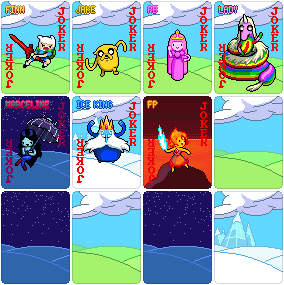
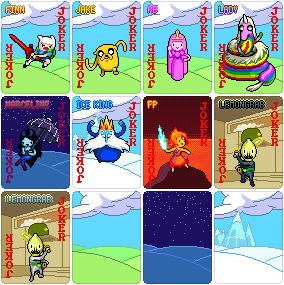
added lemongrab sprites

Changed region(s): [[0.7324, 0.3368, 1.0, 0.6737], [0.0, 0.6456, 0.2535, 1.0]]

diff --git a/upscale.py b/upscale.py
@@ -1,0 +1,28 @@
+import os
+from PIL import Image
+
+input_dir = "./assets/1x/"
+output_dir = "./assets/2x/"
+
+os.makedirs(output_dir, exist_ok=True)
+
+for filename in os.listdir(input_dir):
+    if filename.endswith(".png"):
+        if not os.path.exists(os.path.join(output_dir, filename)) or os.path.getmtime(os.path.join(output_dir, filename)) < os.path.getmtime(os.path.join(input_dir, filename)):
+            if os.path.exists(os.path.join(output_dir, filename)):
+                os.remove(os.path.join(output_dir, filename))
+                print(f"❌ Deleted 2x of {filename}")
+            else:
+                print(f"🫥 2x of {filename} already doesn't exist")
+            input_path = os.path.join(input_dir, filename)
+            output_path = os.path.join(output_dir, filename)
+
+            img = Image.open(input_path)
+            scaled_img = img.resize((img.width * 2, img.height * 2), Image.NEAREST)
+            scaled_img.save(output_path)
+
+            print(f"✅ Upscaled {filename} to 2x")
+        else:
+            print(f"↪ Ignored {filename} in 2x folder (1x hasn't been changed)")
+    else:
+        print(f"↪ Ignored {filename} in 1x folder (not a PNG)")
